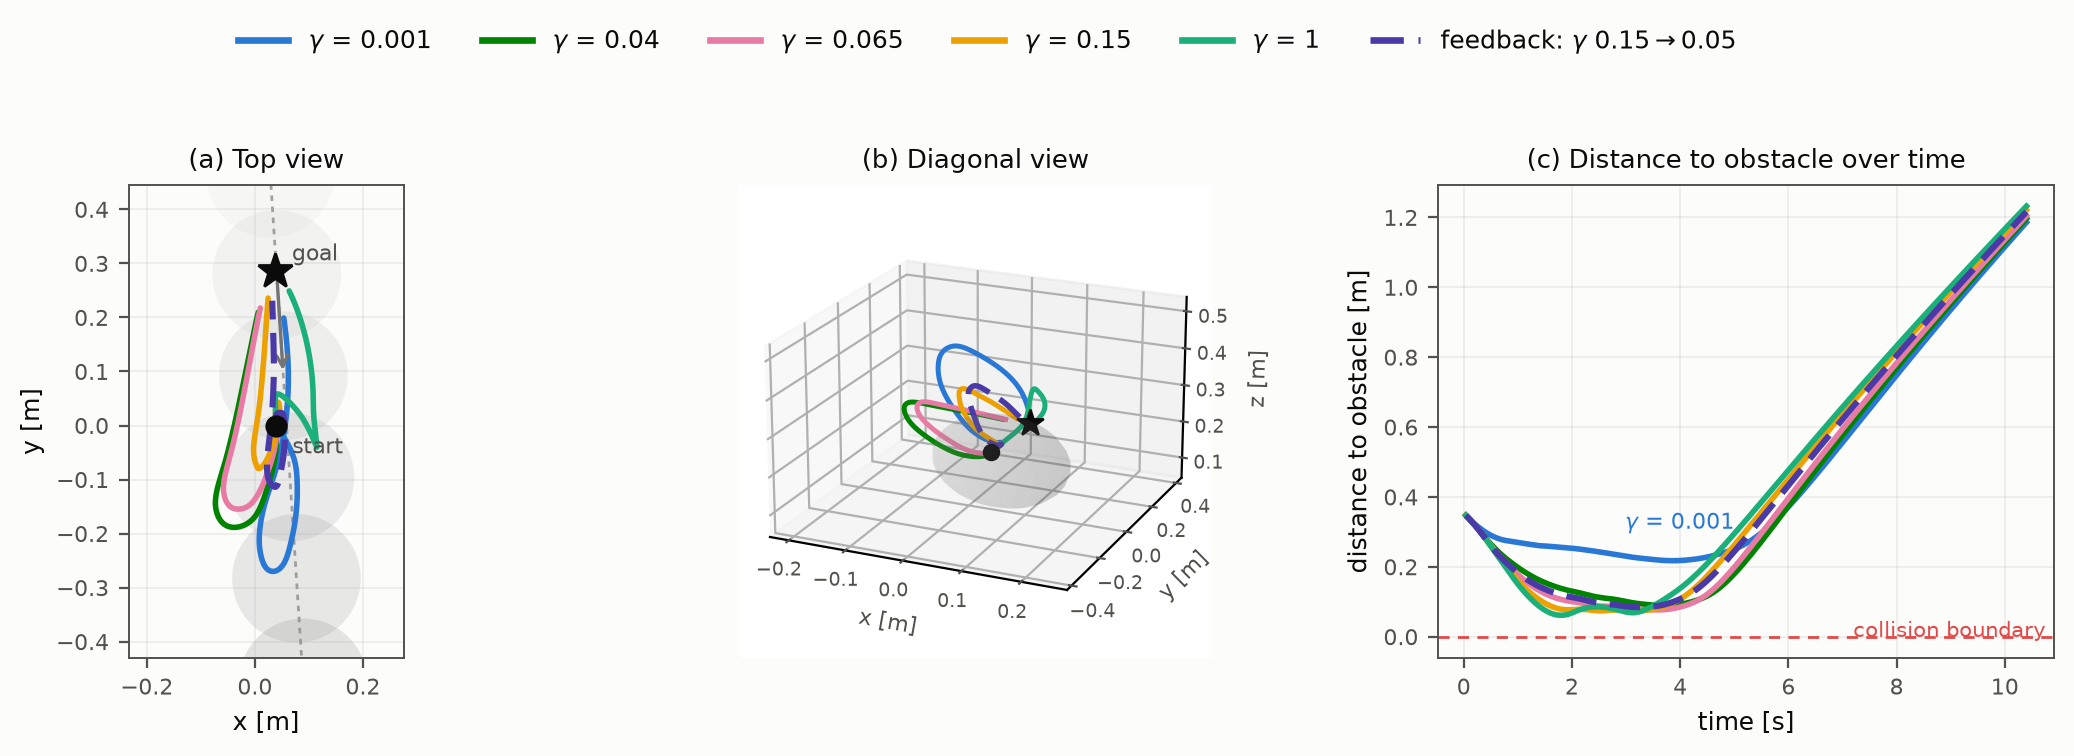
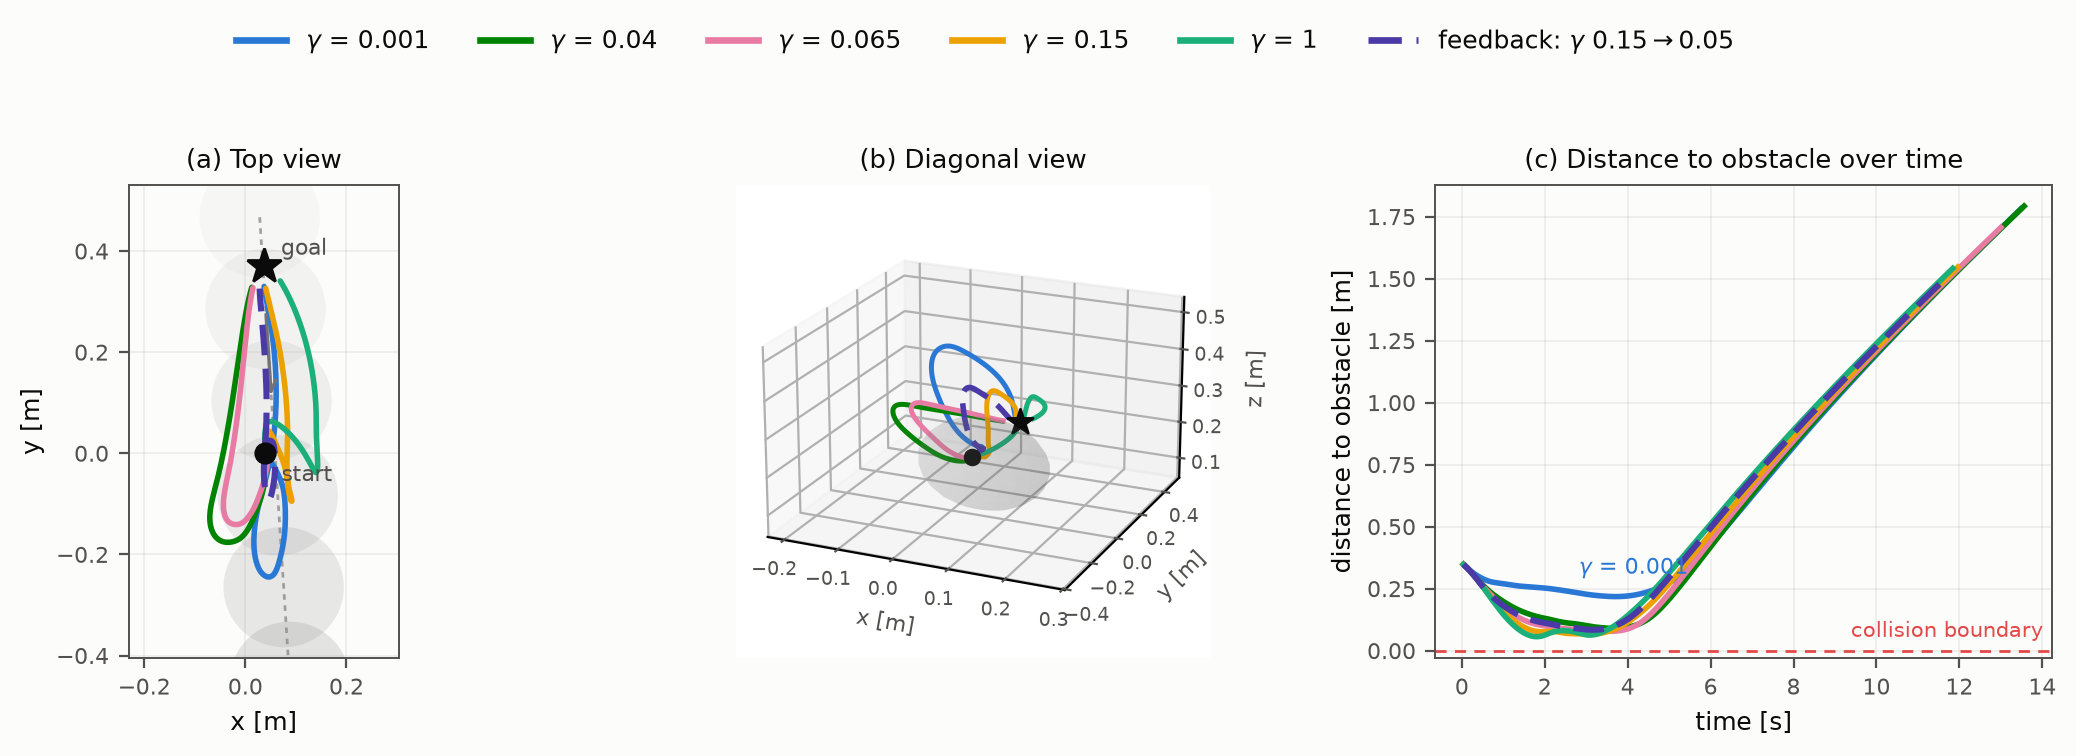
CS1-E11 horseshoe illustration profile; paper-style faded obstacle
Stretch the illustration's start-to-goal offset 1.3x and raise the step
cap to 520 (via new --goal-scale/--max-steps render flags) so every
sweep run traces its full horseshoe avoidance arc and reaches the goal;
the frozen-contract outcome (collision-free safety timeout at 260) is
stated alongside. Draw the obstacle as to-scale translucent spheres
fading into the past (source-paper Fig.-5 style) in the episode chart,
cropped to the robot's neighborhood so equal aspect no longer stretches
the panel; move the trajectory legend out of the plot area. Regenerate
the README sweep figure, episode gif, and clearance chart from the new
runs and update the numbers table.

diff --git a/src/lampc_cbf/smooth_dynamic_demo.py b/src/lampc_cbf/smooth_dynamic_demo.py
@@ -2046,7 +2046,40 @@ def run_smooth_dynamic_demo(
                 reference_path[:, 0], reference_path[:, 1], "--", color="green",
                 linewidth=1.2, label="continuous B-spline reference",
             )
-            axes[0].plot(true_array[:, 0], true_array[:, 1], "r--", label="obstacle")
+            # Obstacle as a recessive context layer (paper Fig.-5 style): the
+            # sphere drawn to scale at sampled positions, opacity fading into
+            # the past, with a faint dashed center path — so the robot's
+            # avoidance path stays the dominant ink. Crop the obstacle path to
+            # the robot's neighborhood: with equal aspect, a long obstacle
+            # transit would otherwise stretch the panel into a thin strip.
+            focus = np.vstack([raw_positions[:, :2], start[None, :2], goal[None, :2]])
+            pad = combined_radius * 1.35
+            crop_x = (focus[:, 0].min() - pad, focus[:, 0].max() + pad)
+            crop_y = (focus[:, 1].min() - pad, focus[:, 1].max() + pad)
+            in_crop = (
+                (true_array[:, 0] > crop_x[0] - combined_radius * 0.4)
+                & (true_array[:, 0] < crop_x[1] + combined_radius * 0.4)
+                & (true_array[:, 1] > crop_y[0] - combined_radius * 0.4)
+                & (true_array[:, 1] < crop_y[1] + combined_radius * 0.4)
+            )
+            visible = true_array[in_crop]
+            if len(visible) >= 2:
+                snap_indices = np.linspace(0, len(visible) - 1, 7).astype(int)
+                for order, snap in enumerate(snap_indices):
+                    age = order / max(1, len(snap_indices) - 1)
+                    axes[0].add_patch(
+                        plt.Circle(
+                            visible[snap][:2], combined_radius,
+                            color="0.55", alpha=0.05 + 0.18 * age, linewidth=0,
+                        )
+                    )
+                axes[0].plot(
+                    visible[:, 0], visible[:, 1], color="0.55",
+                    linewidth=1.0, linestyle=(0, (2, 2)), alpha=0.8,
+                    label="obstacle path (spheres to scale, faded = past)",
+                )
+            axes[0].set_xlim(*crop_x)
+            axes[0].set_ylim(*crop_y)
             axes[0].scatter(start[0], start[1], c="black", label="start")
             axes[0].scatter(goal[0], goal[1], c="green", marker="*", s=140, label="goal")
             axes[0].set_aspect("equal", adjustable="box")
@@ -2054,7 +2087,7 @@ def run_smooth_dynamic_demo(
             axes[0].set_ylabel("y [m]")
             axes[0].set_title("Raw, visual spline, and MPC reference")
             axes[0].grid(True, alpha=0.3)
-            axes[0].legend(fontsize=7)
+            axes[0].legend(fontsize=7, loc="center left", bbox_to_anchor=(1.02, 0.5))
 
             axes[1].plot(time, true_clearances, label="raw true clearance")
             axes[1].plot(time, measured_clearances, label="raw measured clearance")

diff --git a/scripts/render_nim_slack_episode.py b/scripts/render_nim_slack_episode.py
@@ -29,6 +29,22 @@ def main() -> None:
     parser.add_argument("episode_ids", nargs="+", help="e.g. CS2-E09 CS1-E11")
     parser.add_argument("--output-root", default="artifacts")
     parser.add_argument(
+        "--max-steps",
+        type=int,
+        default=None,
+        help="override the frozen step cap (e.g. 520 for an extended-horizon "
+        "illustration). Values other than the frozen 260 deviate from the "
+        "benchmark contract and are exploratory renders, not benchmark rows.",
+    )
+    parser.add_argument(
+        "--goal-scale",
+        type=float,
+        default=1.0,
+        help="scale the start-to-goal offset (e.g. 1.5 stretches the reach "
+        "50%% farther along the same axis). Values != 1.0 deviate from the "
+        "frozen instance and are exploratory renders, not benchmark rows.",
+    )
+    parser.add_argument(
         "--obstacle-scale",
         type=float,
         default=0.8,
@@ -67,6 +83,12 @@ def main() -> None:
             kwargs["obstacle_radius"] = (
                 float(kwargs["obstacle_radius"]) * args.obstacle_scale
             )
+        if args.max_steps is not None:
+            kwargs["max_steps"] = args.max_steps
+        if args.goal_scale != 1.0:
+            kwargs["goal_offset"] = tuple(
+                float(value) * args.goal_scale for value in kwargs["goal_offset"]
+            )
 
         protocol = manifest["feedback_protocol"]
         decision = mapper.infer(
@@ -95,6 +117,10 @@ def main() -> None:
             if args.obstacle_scale == 1.0
             else f"_obs{int(round(args.obstacle_scale * 100))}"
         )
+        if args.max_steps is not None:
+            suffix += f"_s{args.max_steps}"
+        if args.goal_scale != 1.0:
+            suffix += f"_goal{int(round(args.goal_scale * 100))}"
         output_dir = (
             Path(args.output_root) / f"render_nim_slack_random_{episode_id}{suffix}"
         )

diff --git a/README.md b/README.md
@@ -70,41 +70,49 @@ extension reaches `23/50` vs `19/50` (McNemar `p=0.125`) and is not
 evidence for the paper's GPT-4o/OpenAI success-rate claim. See
 [the detailed 3-D result](docs/SAFE_PANDA_3D_PROVIDER_50_RESULT.md).
 
-### Gamma-sweep illustration (head-on encounter, frozen instance CS1-E11)
+### Gamma-sweep illustration (head-on encounter, instance CS1-E11)
 
 One head-on episode from the frozen core benchmark, run under five fixed
 gamma values plus the checkpointed language-feedback protocol, all on the
-velocity-tube + soft-slack profile. On this instance every run —
-including feedback — ends as a collision-free safety timeout: with the
-obstacle riding the goal axis, the safe set along the direct route stays
-empty. What gamma buys is clearance: smaller gamma deviates earlier and
-holds a visibly wider margin, and the feedback run (gamma 0.15 to 0.05
-at the frozen intervention time) recovers clearance over fixed 0.15
-(73.6 mm to 84.3 mm). Illustrative, not a population-level ranking — see
+velocity-tube + soft-slack profile. The illustration profile stretches
+the instance's start-to-goal offset by 1.3x and raises the step cap from
+the frozen 260 to 520, so each run has room to trace its full horseshoe
+avoidance arc around the crossing obstacle (drawn to scale as translucent
+spheres, opacity fading into the past, per the source paper's Fig.-5
+style). Under the frozen contract this instance ends as a collision-free
+safety timeout for every arm; with the extended profile every run reaches
+the goal, and the trade stays visible: smaller gamma deviates earlier and
+holds a wider margin, while the feedback run (gamma 0.15 to 0.05 at the
+frozen intervention time) is both the fastest to the goal and clears the
+obstacle more widely than fixed 0.15 (84.2 mm vs 65.1 mm). Illustrative,
+not a population-level ranking — see
 [the 150-episode result](docs/SAFE_PANDA_CORE_SCENARIOS_150_RESULT.md).
 
 ![Gamma sweep on a head-on encounter](docs/assets/gamma_sweep_cs1e11.png)
 
 | Run | Outcome | Steps | Minimum true clearance |
 |---|---|---:|---:|
-| `gamma=0.001` | Safety timeout | 260 | 217.4 mm |
-| `gamma=0.040` | Safety timeout | 260 | 88.8 mm |
-| `gamma=0.065` | Safety timeout | 260 | 76.6 mm |
-| `gamma=0.150` | Safety timeout | 260 | 73.6 mm |
-| `gamma=1.000` | Safety timeout | 260 | 61.3 mm |
-| feedback `0.15→0.05` | Safety timeout | 260 | 84.3 mm |
+| `gamma=0.001` | Goal | 337 | 217.9 mm |
+| `gamma=0.040` | Goal | 339 | 89.6 mm |
+| `gamma=0.065` | Goal | 325 | 77.8 mm |
+| `gamma=0.150` | Goal | 299 | 65.1 mm |
+| `gamma=1.000` | Goal | 296 | 56.3 mm |
+| feedback `0.15→0.05` | **Goal** | **292** | **84.2 mm** |
 
-### Feedback-arm episode render (head-on closure, frozen instance CS1-E11)
+### Feedback-arm episode render (head-on closure, instance CS1-E11)
 
-The same frozen head-on episode replayed under the NIM + soft-slack
-feedback arm (gamma `0.15 -> 0.05` at the frozen intervention time,
-cached provider decision, L1 slack valve on the velocity-tube base).
-The arm ends the episode as a collision-free safety timeout: the
-end-effector yields to the closing obstacle and holds clearance
-(minimum `84.3 mm` over 260 steps) instead of forcing the goal. The
-replay reproduces the committed benchmark row exactly, and the
-animation draws the obstacle at its true instance radius
-(`scripts/render_nim_slack_episode.py --obstacle-scale 1.0`).
+The same episode replayed under the NIM + soft-slack feedback arm
+(gamma `0.15 -> 0.05` at the frozen intervention time, cached provider
+decision, L1 slack valve on the velocity-tube base), on the same
+illustration profile (1.3x goal offset, 520-step cap, true obstacle
+radius). The end-effector loops backward into the horseshoe as the
+obstacle closes, lets it pass, then swings around to the goal in 292
+steps with a minimum clearance of `84.2 mm` — no collision. Reproduce
+with
+`scripts/render_nim_slack_episode.py CS1-E11 --obstacle-scale 1.0
+--max-steps 520 --goal-scale 1.3`; under the frozen benchmark contract
+(260-step cap, unstretched goal) the same episode is a collision-free
+safety timeout, as recorded in the committed benchmark row.
 
 ![CS1-E11 robot motion](docs/assets/nim_slack_cs1e11_motion.gif)
 